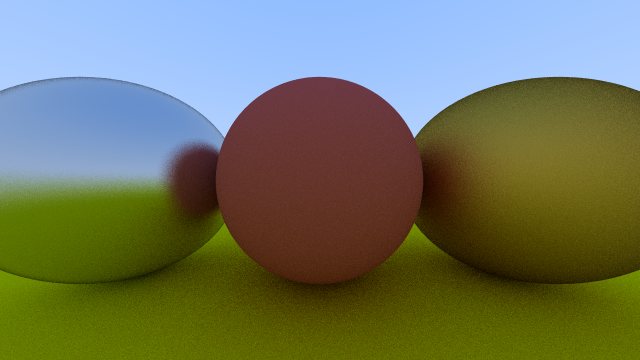
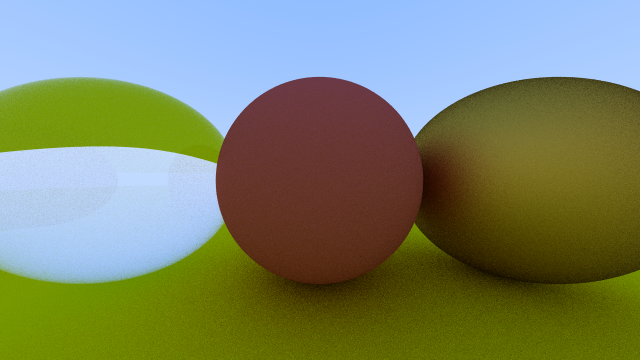
Add glass

Changed region(s): [[0.0, 0.2139, 0.4375, 1.0]]

diff --git a/src/material.rs b/src/material.rs
@@ -1,4 +1,4 @@
-use crate::{object::HitRecord, Color, Ray, Vec3};
+use crate::{object::HitRecord, random_float, Color, Ray, Vec3};
 
 pub trait Material {
     fn scatter(&self, r_in: &Ray, rec: &HitRecord) -> Option<(Color, Ray)>;
@@ -51,5 +51,49 @@ impl Material for Metal {
         } else {
             None
         }
+    }
+}
+
+pub struct Dielectric {
+    ir: f64,
+}
+
+impl Dielectric {
+    pub fn new(ir: f64) -> Self {
+        Self { ir }
+    }
+
+    fn reflectance(cosine: f64, ref_idx: f64) -> f64 {
+        let r0 = (1.0 - ref_idx) / (1.0 + ref_idx);
+        let r0 = r0 * r0;
+
+        r0 + (1.0 - r0) * (1.0 - cosine).powi(5)
+    }
+}
+
+impl Material for Dielectric {
+    fn scatter(&self, r_in: &Ray, rec: &HitRecord) -> Option<(Color, Ray)> {
+        let attenuation = Color::new(1.0, 1.0, 1.0);
+        let ratio = if rec.is_front() {
+            1.0 / self.ir
+        } else {
+            self.ir
+        };
+
+        let u = r_in.direction().unit();
+
+        let cos = (-u).dot(&rec.normal()).min(1.0);
+        let sin = (1.0 - cos * cos).sqrt();
+        let cannot_refract = ratio * sin > 1.0;
+
+        let dir = if cannot_refract || Self::reflectance(cos, ratio) > random_float() {
+            u.reflect(&rec.normal())
+        } else {
+            u.refract(&rec.normal(), ratio)
+        };
+
+        let scattered = Ray::new(rec.p(), dir);
+
+        Some((attenuation, scattered))
     }
 }

diff --git a/src/vec3.rs b/src/vec3.rs
@@ -48,6 +48,14 @@ impl Vec3 {
         *self - 2.0 * self.dot(n) * (*n)
     }
 
+    pub fn refract(&self, n: &Vec3, ratio: f64) -> Self {
+        let cos = (-self.dot(&n)).min(1.0);
+        let out_prep = ratio * (*self + cos * (*n));
+        let out_para = -(1.0 - out_prep.length_squared()).abs().sqrt() * (*n);
+
+        out_prep + out_para
+    }
+
     pub fn x(&self) -> f64 {
         self.0
     }

diff --git a/src/main.rs b/src/main.rs
@@ -29,7 +29,7 @@ fn main() {
     world.add(Sphere::new(
         Point3::new(-1.0, 0.0, -1.0),
         0.5,
-        Metal::new(Color::new(0.8, 0.8, 0.8), 0.3),
+        Dielectric::new(1.5),
     ));
     world.add(Sphere::new(
         Point3::new(1.0, 0.0, -1.0),

diff --git a/src/lib.rs b/src/lib.rs
@@ -5,7 +5,7 @@ mod ray;
 mod vec3;
 
 pub use camera::Camera;
-pub use material::{Lambertian, Material, Metal};
+pub use material::{Dielectric, Lambertian, Material, Metal};
 pub use object::{Sphere, World};
 pub use ray::Ray;
 pub use vec3::{Color, Point3, Vec3};

diff --git a/src/object.rs b/src/object.rs
@@ -20,6 +20,10 @@ impl HitRecord<'_> {
     pub fn material(&self) -> &dyn Material {
         self.material
     }
+
+    pub fn is_front(&self) -> bool {
+        self.is_front
+    }
 }
 
 pub trait Hittable {
